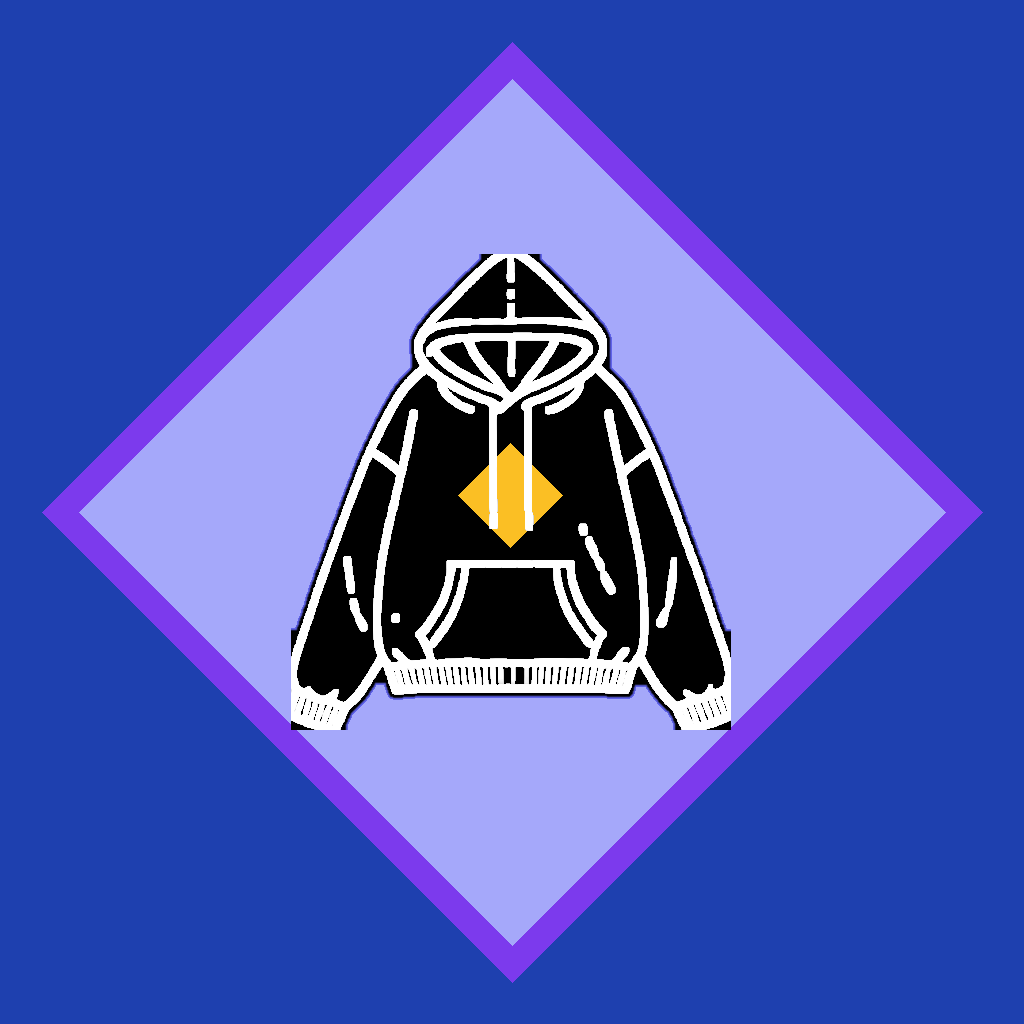
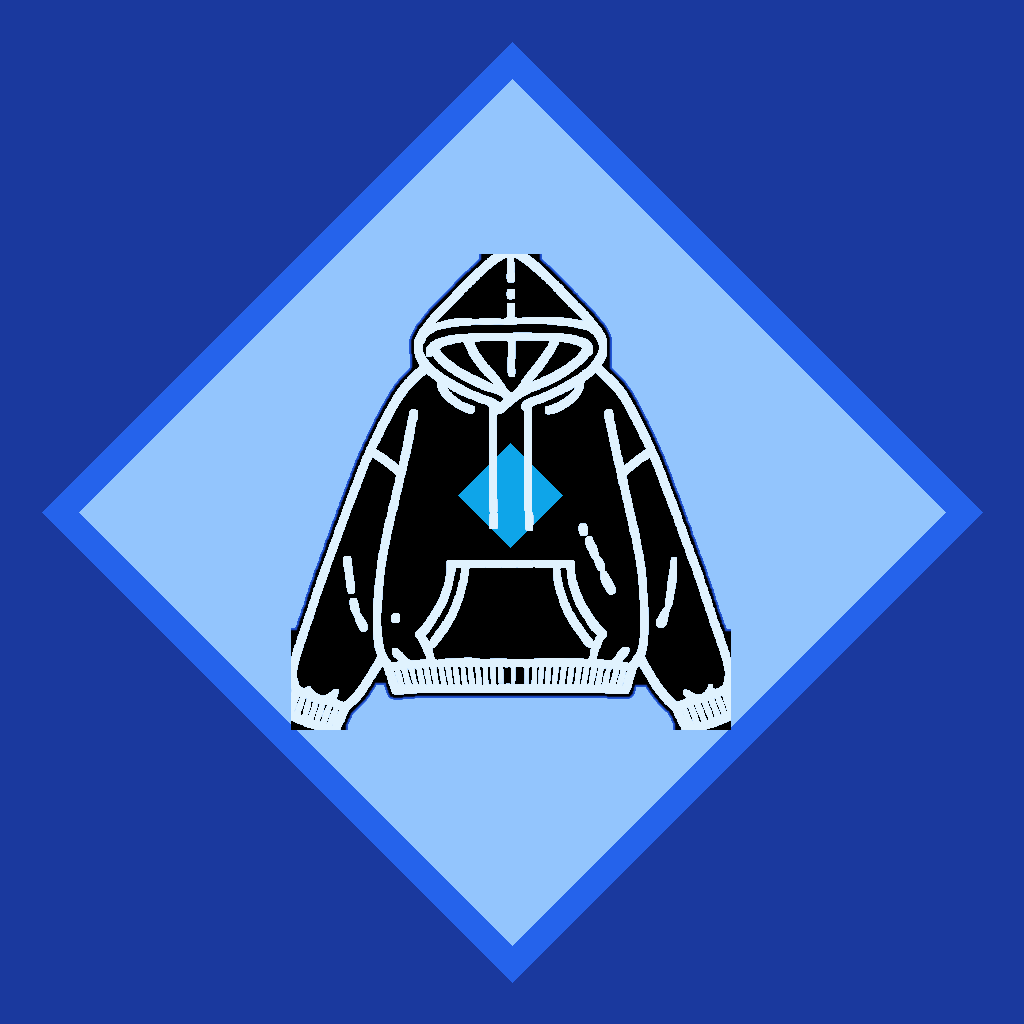
アイコン: 色を青系統と黒だけにし、背景をほんの少し暗くする
背景(26,57,158)・枠(37,99,235)・2段目(147,197,253)・服(0,0,0)・線(224,242,254)・3段目(14,165,233)。
6色はすべて違い、青系統と黒だけ。ふちのなだらかな変わり目は、近い2色の混ざりとして読み、同じ割合で新しい色を混ぜ直した。?v=15。

diff --git a/index.html b/index.html
@@ -8,7 +8,7 @@
     <meta name="robots" content="noindex, nofollow">
     <title>ARELM</title>
     <link rel="stylesheet" href="css/style.css">
-    <link rel="manifest" href="manifest.json?v=14">
+    <link rel="manifest" href="manifest.json?v=15">
     <meta name="theme-color" content="#0f172a">
 
     <!-- iOS（iPhone・iPad）でホーム画面に追加したときの設定 -->
@@ -16,9 +16,9 @@
     <meta name="apple-mobile-web-app-status-bar-style" content="black-translucent">
     <meta name="apple-mobile-web-app-title" content="ARELM">
     <!-- アイコンはMacのアプリと同じ絵、名前は「ARELM」に、全端末で揃える。?v= は、各端末が古いアイコンを使い続けないため -->
-    <link rel="apple-touch-icon" sizes="180x180" href="images/apple-touch-icon.png?v=14">
-    <link rel="apple-touch-icon" sizes="512x512" href="images/icon-512x512.png?v=14">
-    <link rel="icon" type="image/png" sizes="192x192" href="images/icon-any-192x192.png?v=14">
+    <link rel="apple-touch-icon" sizes="180x180" href="images/apple-touch-icon.png?v=15">
+    <link rel="apple-touch-icon" sizes="512x512" href="images/icon-512x512.png?v=15">
+    <link rel="icon" type="image/png" sizes="192x192" href="images/icon-any-192x192.png?v=15">
 </head>
 <body>
     <div id="login-screen" class="login-screen">
